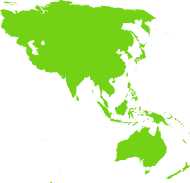
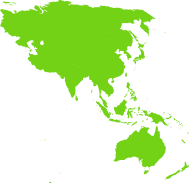
adjusting border between apac and emea, it had been overlapping

diff --git a/fedoracommunity.org/static/js/jquery-worldmap.js b/fedoracommunity.org/static/js/jquery-worldmap.js
@@ -85,7 +85,7 @@ $(highlight_emea).css({
 });
 $(highlight_apac).css({
     "position": "absolute",
-    "left": 215,
+    "left": 216,
     "top": 12,
     "z-index": 2,
     "opacity": 0
